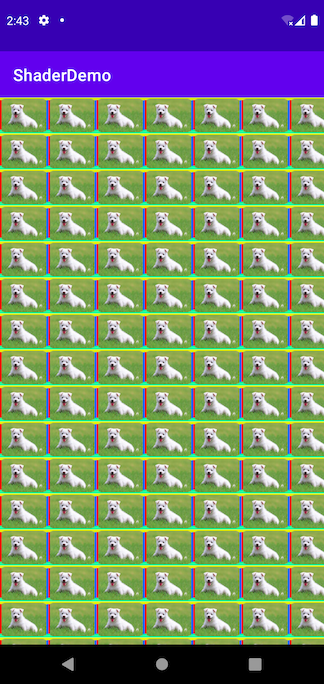
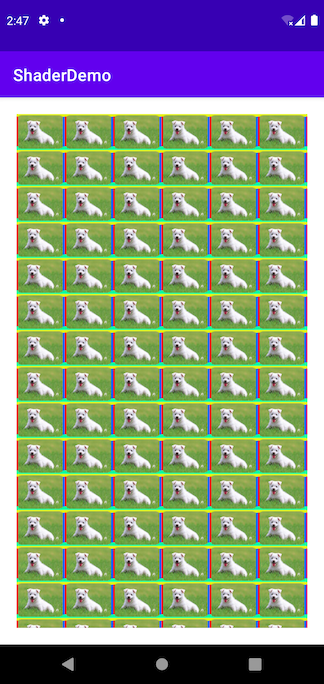
Shader

diff --git a/自定义视图/008_Shader.md b/自定义视图/008_Shader.md
@@ -32,7 +32,7 @@ TileMode的取值如下：
 + REPEAT - 重复图像来填充多余空间
 + MIRROR - 重复使用镜像模式的图像来填充多余空间
 
-如下的例子，将x轴和y轴都设置为`Shader.TileMode.REPEAT`
+如下的例子，**将x轴和y轴都设置为`Shader.TileMode.REPEAT`**
 
 ```java
 public class BitmapShaderView extends View {
@@ -62,13 +62,41 @@ public class BitmapShaderView extends View {
 
 ![058](https://github.com/winfredzen/Android-Basic/blob/master/自定义视图/images/058.png)
 
+> X轴、Y轴全部设置为REPEAT模式，当控件的显示范围超出单张图片的显示范围时，在X轴上将使用REPEAT模式，Y轴通用
 
 
 
+如果X轴、Y轴都设置为`Shader.TileMode.MIRROR`
+
+![059](https://github.com/winfredzen/Android-Basic/blob/master/自定义视图/images/059.png)
+
+> 在X轴上没两张图片的显示都像镜子一样翻转一下；同样，在Y轴上每两张图片的显示也像镜子一样翻转一下
 
 
 
+如果X轴、Y轴都设置为`Shader.TileMode.CLAMP`
 
+![060](https://github.com/winfredzen/Android-Basic/blob/master/自定义视图/images/060.png)
+
+> 当控件区域超出单张图片的大小时，空白位置就用图片的边缘颜色来填充
+
+
+
+**填充顺序**
+
+从CLAMP模式的效果可以看出，空白区域的填充是先竖向填充，然后再以竖向填充结果为模板进行横向填充
+
+![061](https://github.com/winfredzen/Android-Basic/blob/master/自定义视图/images/061.png)
+
+如下在X轴上使用MIRROR模式，在Y轴上使用REPEAT模式：
+
+```java
+mPaint.setShader(new BitmapShader(mBitmap, Shader.TileMode.MIRROR, Shader.TileMode.REPEAT));
+```
+
+![062](https://github.com/winfredzen/Android-Basic/blob/master/自定义视图/images/062.png)
+
+> **无论哪两种混合模式，只需要记住先填充Y轴，然后填充X轴**
 
 
 
